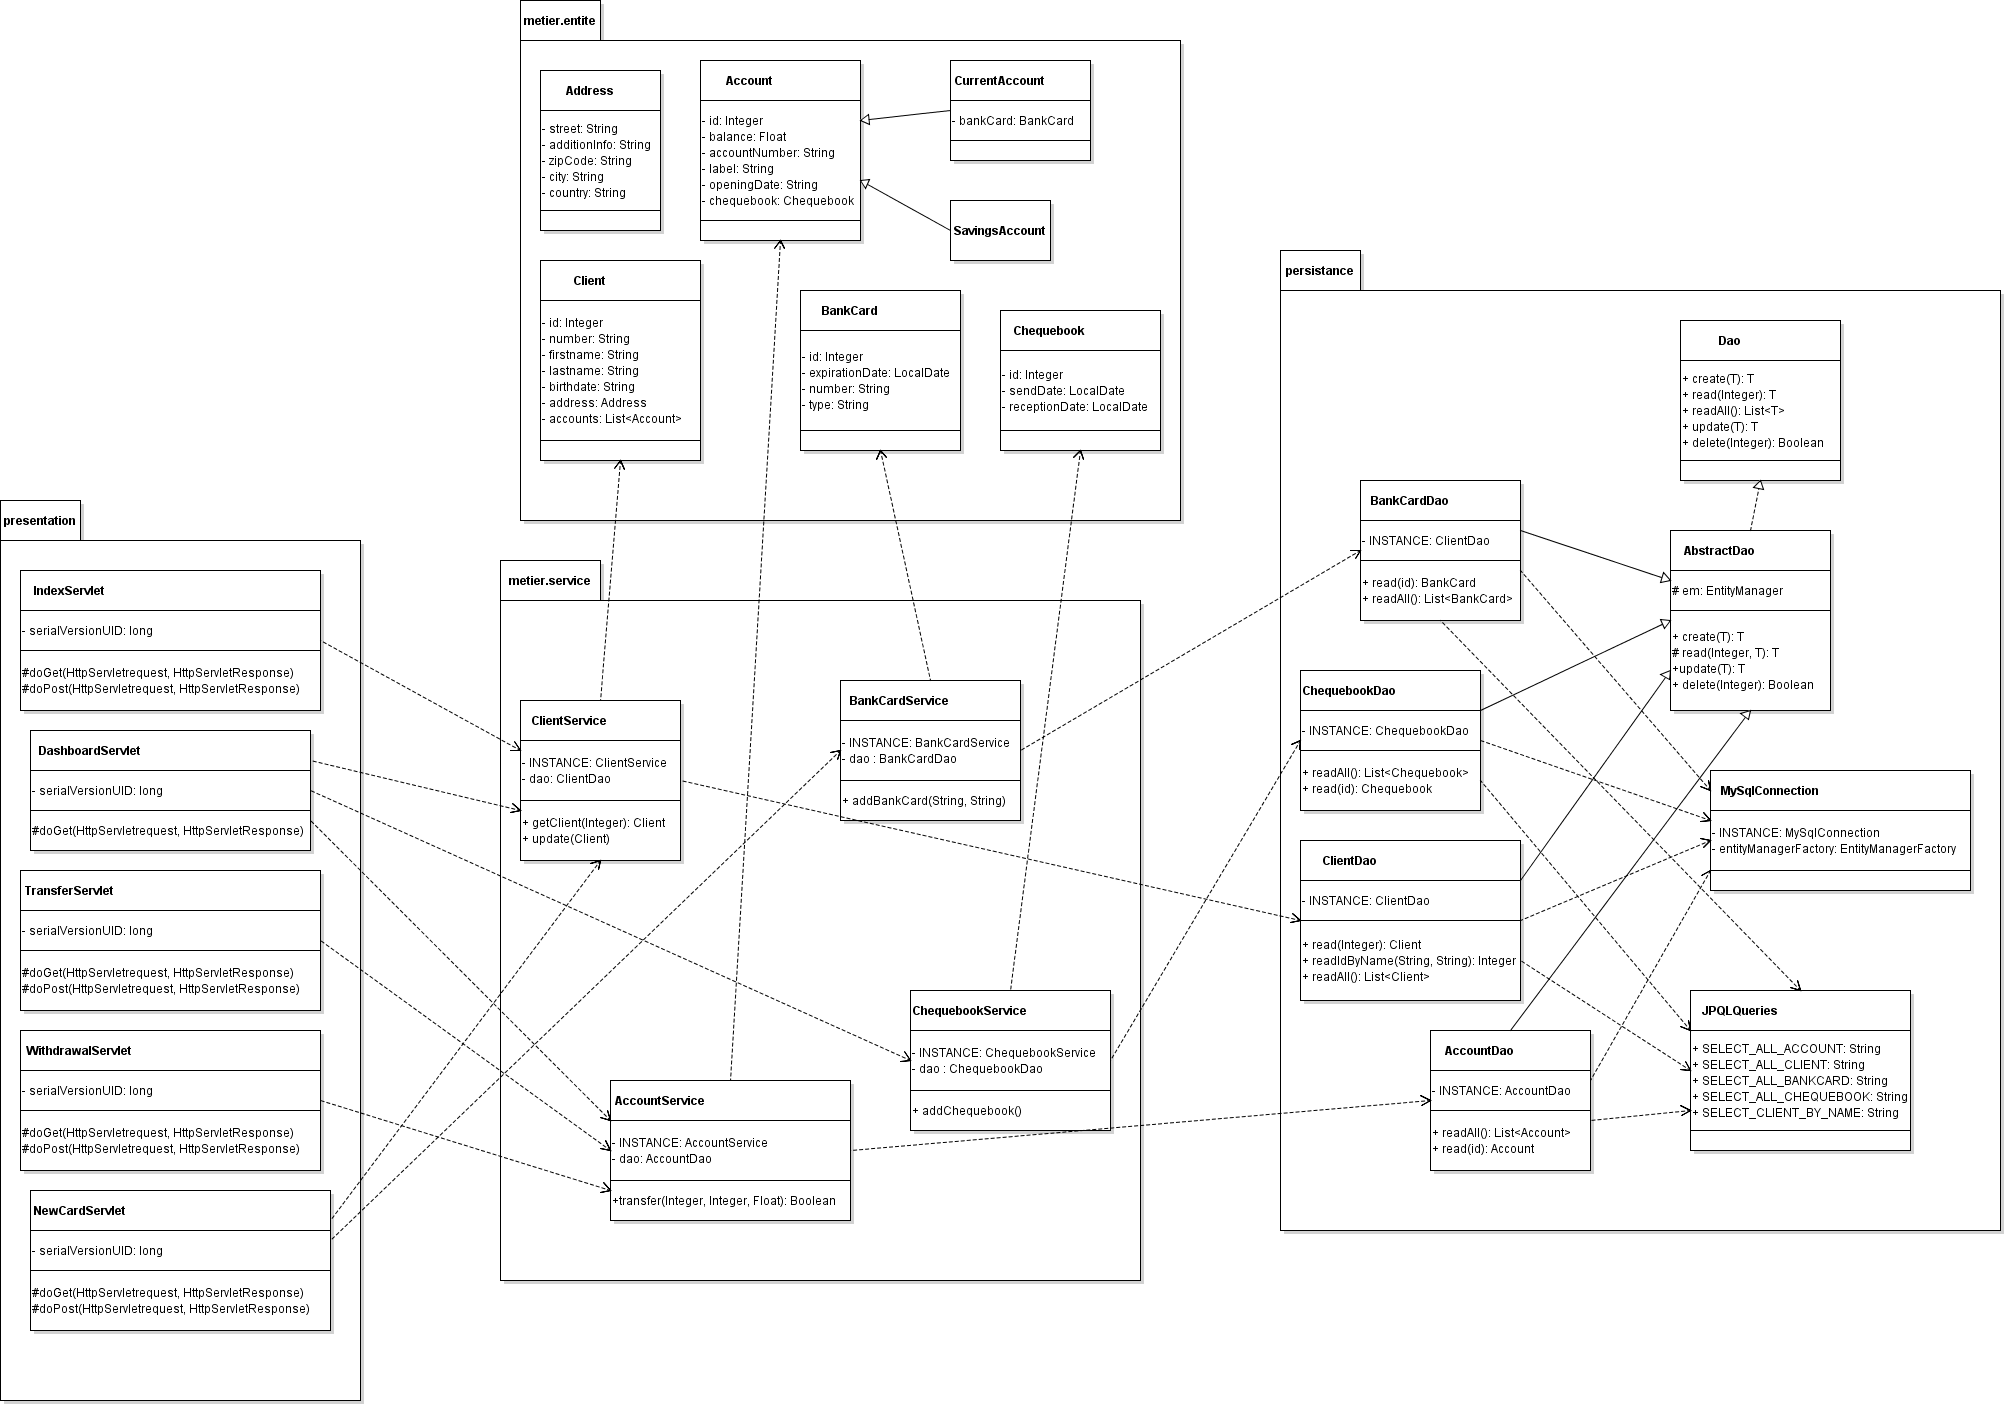
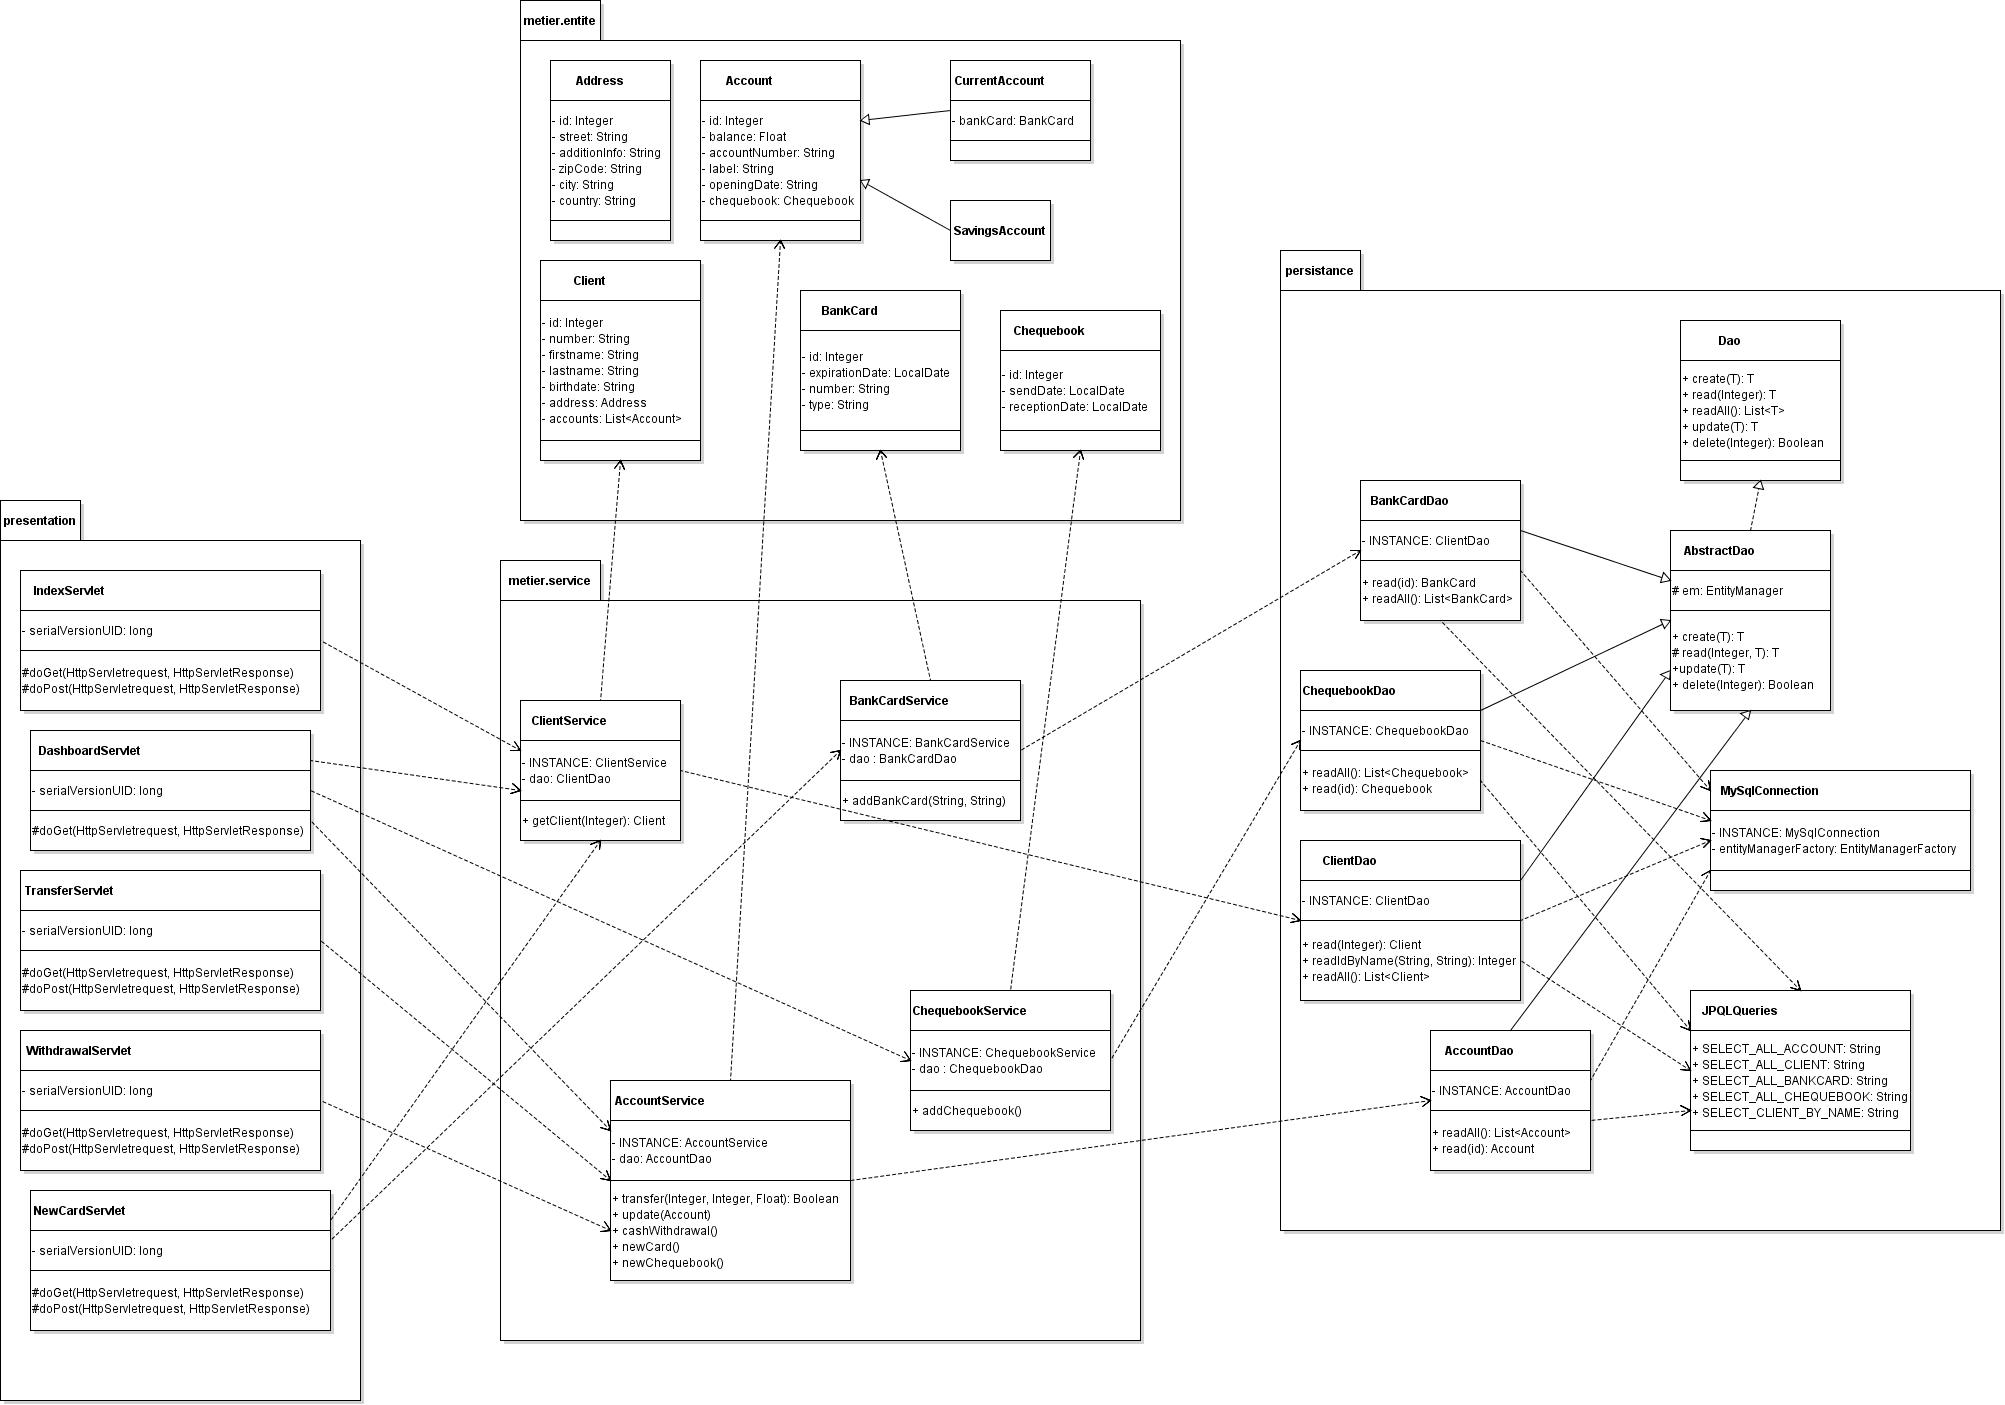
Couche metier service

diff --git a/src/main/java/fr/formation/proxi/metier/ChequebookService.java b/src/main/java/fr/formation/proxi/metier/ChequebookService.java
@@ -1,0 +1,23 @@
+package fr.formation.proxi.metier;
+
+import fr.formation.proxi.metier.entity.Chequebook;
+import fr.formation.proxi.persistance.ChequebookDao;
+
+public class ChequebookService {
+
+	public static final ChequebookService INSTANCE = new ChequebookService();
+	
+	public static ChequebookService getInstance() {
+		return ChequebookService.INSTANCE;
+	}
+	
+	private final ChequebookDao dao;
+	
+	public ChequebookService() {
+		this.dao = new ChequebookDao();
+	}
+	
+	public void addChequebook(Chequebook chequebook) {
+		this.dao.create(chequebook);
+	}
+}

diff --git a/src/main/java/fr/formation/proxi/metier/BankCardService.java b/src/main/java/fr/formation/proxi/metier/BankCardService.java
@@ -1,0 +1,23 @@
+package fr.formation.proxi.metier;
+
+import fr.formation.proxi.metier.entity.BankCard;
+import fr.formation.proxi.persistance.BankCardDao;
+
+public class BankCardService {
+
+public static final BankCardService INSTANCE = new BankCardService();
+	
+	public static BankCardService getInstance() {
+		return BankCardService.INSTANCE;
+	}
+	
+	private final BankCardDao dao;
+	
+	public BankCardService() {
+		this.dao = new BankCardDao();
+	}
+	
+	public void addBankCard(BankCard bankCard) {
+		this.dao.create(bankCard);
+	}
+}

diff --git a/src/main/java/fr/formation/proxi/persistance/AccountDao.java b/src/main/java/fr/formation/proxi/persistance/AccountDao.java
@@ -12,6 +12,11 @@ public class AccountDao extends AbstractDao<Account> {
 		return null;
 	}
 
+	public List<Account> readAll(Integer id) {
+		// TODO Auto-generated method stub
+		return null;
+	}
+
 	@Override
 	public List<Account> readAll() {
 		// TODO Auto-generated method stub
